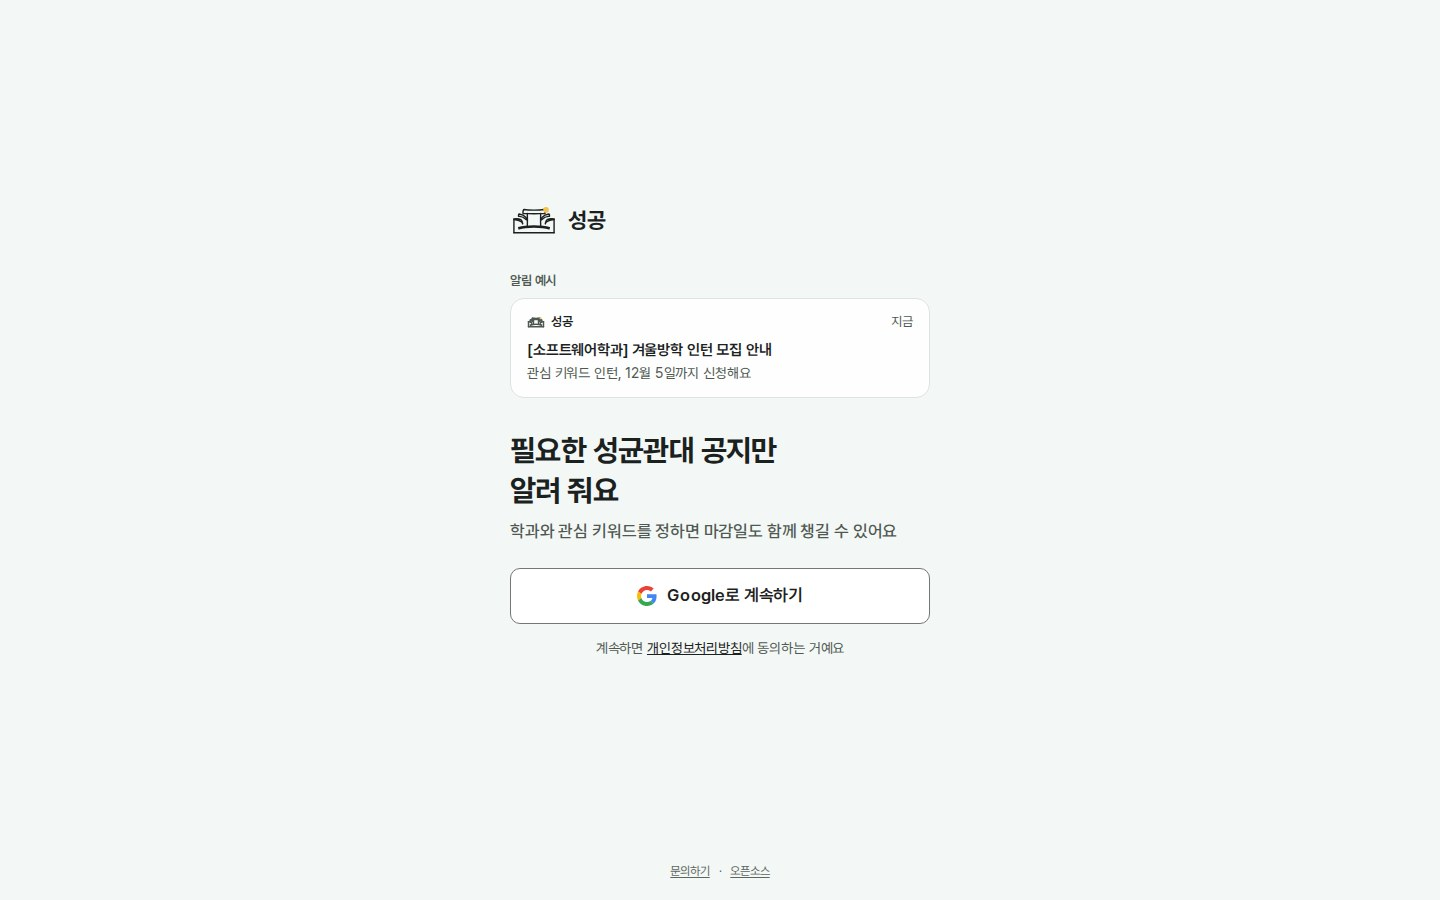
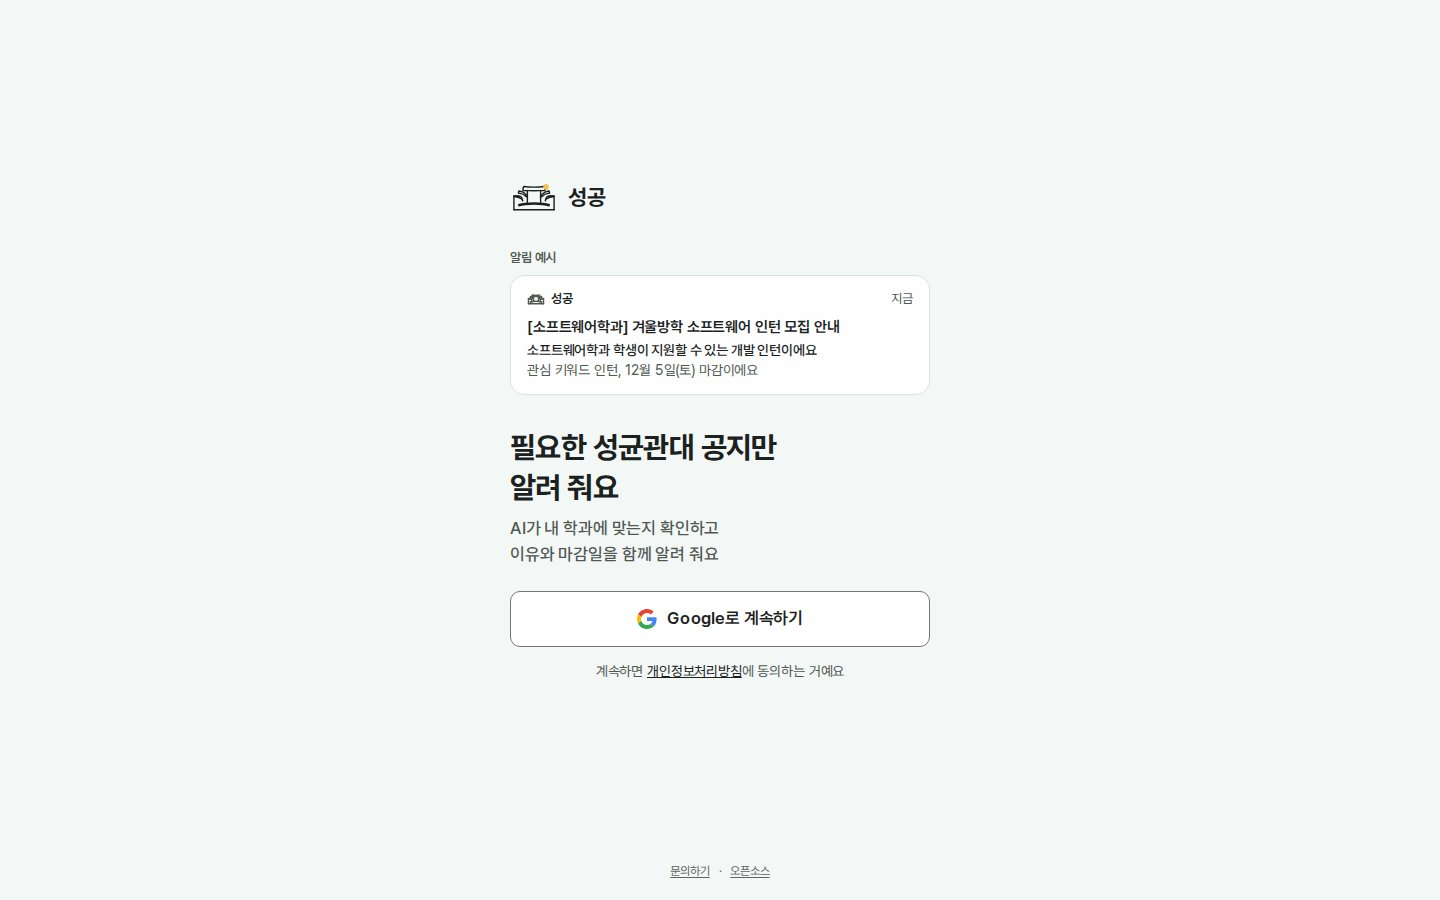
docs: README에 현장실습과 바뀐 알림·새 버전 안내를 적고 캡처를 새로 찍는다
- 현장실습 구역 추가(예시 기관 데이터로 찍은 PC·모바일, 라이트·다크). 실제 톨게이트 기관 정보는 로그인한 사용자만 보므로 README에 싣지 않는다.
- 로그인(새 알림 예시, 설치 단추), PC 목록·상세, 모바일 목록·상세를 운영 화면으로 다시 찍었다(메뉴의 현장실습, 휴대폰 강조색).
- 알림 제목 [게시판] 형식, 공지 로그인 전용, 요약 대상(현장실습 포함), 새 버전 알림 줄, 단축키 1~4를 적고,
  더는 없는 '마지막 공지 스냅샷'과 '요약 다시 시도' 문장을 지운다. 현장실습 수집 방식과 한계를 알려진 한계에 적는다.

Changed region(s): [[0.3438, 0.4667, 0.625, 0.6222], [0.3438, 0.1867, 0.5938, 0.4356], [0.4062, 0.6533, 0.5938, 0.7778]]

diff --git a/README.md b/README.md
@@ -4,7 +4,7 @@
 
 # 성공
 
-성균관대 공지와 인턴 공고를 모아 보고, 나에게 맞는 공지만 알림으로 받는 다중 사용자 웹 앱
+성균관대 공지, 인턴 공고, 현장실습을 모아 보고, 나에게 맞는 공지만 알림으로 받는 다중 사용자 웹 앱
 
 ![version](https://img.shields.io/badge/version-0.1.0-124532)
 ![PWA](https://img.shields.io/badge/PWA-installable-124532)
@@ -20,7 +20,7 @@
 
 ### 1. 로그인
 
-Google 계정으로 로그인합니다. 휴대폰에서는 Google 단추 위에 "앱으로 설치하기"(설치한 앱으로 열면 사라집니다)가 보이고, 단추 바로 아래에서 개인정보처리방침을 로그인 전에도 읽을 수 있으며, 맨 아래에는 "문의하기 · 오픈소스" 링크를 작게 둡니다. 모바일 캡처는 안드로이드에서 설치 단추가 보이는 모습입니다.
+Google 계정으로 로그인합니다. 공지는 로그인한 사용자만 볼 수 있습니다. 위의 알림 예시는 실제 알림과 같은 모양으로, 제목 앞에 게시판 이름(`[소프트웨어학과]`)이 붙고 아래에 AI가 본 이유와 관심 키워드·마감이 옵니다. 휴대폰에서는 Google 단추 위에 "앱으로 설치하기"(설치한 앱으로 열면 사라집니다)가 보이고, 단추 바로 아래에서 개인정보처리방침을 로그인 전에도 읽을 수 있으며, 맨 아래에는 "문의하기 · 오픈소스" 링크를 작게 둡니다. 모바일 캡처는 안드로이드에서 설치 단추가 보이는 모습입니다.
 
 | PC: 라이트 | PC: 다크 |
 |:---:|:---:|
@@ -50,7 +50,7 @@ Google 계정으로 로그인합니다. 휴대폰에서는 Google 단추 위에 
 
 #### PC
 
-목록과 공지 상세를 함께 봅니다. 목록에는 관심 키워드, AI 판정 이유, 마감 D-day가 보이고, 공지를 누르면 오른쪽에 판정 이유와 본문이 열립니다. 열린 공지를 다시 누르면 상세 칸이 닫힙니다.
+목록과 공지 상세를 함께 봅니다. 목록에는 관심 키워드, AI 판정 이유, 마감 D-day가 보이고, 공지를 누르면 오른쪽에 판정 이유, AI 요약, 본문이 열립니다. 열린 공지를 다시 누르면 상세 칸이 닫힙니다.
 
 | 라이트 | 다크 |
 |:---:|:---:|
@@ -58,13 +58,25 @@ Google 계정으로 로그인합니다. 휴대폰에서는 Google 단추 위에 
 
 #### 모바일
 
-아래 탭으로 성대 공지, 인턴 공고, 저장한 공지를 오가고, 공지를 눌러 상세와 원문을 확인합니다.
+아래 탭으로 성대 공지, 인턴 공고, 현장실습, 저장한 공지를 오가고, 공지를 눌러 AI 요약과 본문, 원문을 확인합니다.
 
 | 목록: 라이트 | 목록: 다크 | 상세: 라이트 | 상세: 다크 |
 |:---:|:---:|:---:|:---:|
 | <img src="assets/readme/mobile-list-light.jpg" alt="모바일 공지 목록 (라이트)" width="180"> | <img src="assets/readme/mobile-list-dark.jpg" alt="모바일 공지 목록 (다크)" width="180"> | <img src="assets/readme/mobile-detail-light.jpg" alt="모바일 공지 상세 (라이트)" width="180"> | <img src="assets/readme/mobile-detail-dark.jpg" alt="모바일 공지 상세 (다크)" width="180"> |
 
-### 4. 인턴십 졸업요건 확인
+### 4. 현장실습
+
+학교 현장실습업무지원 시스템(톨게이트)의 "현장실습 기관조회"를 공지처럼 정리해 보여 줍니다. 제목은 "기관 · 직무명"이고, 상세는 하는 일, 지원 자격, 실습 조건, 일정, 학교 안내, 기관 순서로 나눕니다. 인턴 공고와 같이 AI 판정과 요약, 인턴십 요건 확인이 붙고, 신청은 "톨게이트에서 신청하기"로 학교 로그인 뒤에 합니다. 접수마감(마감이 없으면 실습 시작일)이 지나면 목록에서 사라지고 서버에서도 지우며, 신청할 수 있는 현장실습이 하나도 없으면 메뉴에서도 숨깁니다. 아래 캡처는 README용 예시 기관입니다(실제 기관 정보는 로그인한 사용자에게만 보입니다).
+
+| PC: 라이트 | PC: 다크 |
+|:---:|:---:|
+| <img src="assets/readme/coop-pc-light.jpg" alt="PC 현장실습 목록과 상세 (라이트, 예시 기관)" width="420"> | <img src="assets/readme/coop-pc-dark.jpg" alt="PC 현장실습 목록과 상세 (다크, 예시 기관)" width="420"> |
+
+| 모바일: 라이트 | 모바일: 다크 |
+|:---:|:---:|
+| <img src="assets/readme/coop-mobile-light.jpg" alt="모바일 현장실습 상세 (라이트, 예시 기관)" width="200"> | <img src="assets/readme/coop-mobile-dark.jpg" alt="모바일 현장실습 상세 (다크, 예시 기관)" width="200"> |
+
+### 5. 인턴십 졸업요건 확인
 
 소프트웨어학과 원전공 사용자는 인턴 공고의 상세에서 학과 졸업 인턴십과 학교 3품 인턴십 요건에 맞는지 봅니다. 기준과 공고에서 읽은 값을 함께 말합니다. 전일제는 기간(약 시간)이 기준(28일 이상)을 넘는지, 파트타임은 총 시간이 기준(160시간 이상)을 넘는지, 3품은 약 몇 시간이라 기준(280시간)에 닿는지 적습니다. 여러 직무를 뽑는 공고는 소프트웨어와 관련 있어 보이는 직무 이름을 근거로 보여 줍니다. 실제 인정은 학교와 학과 확인이 필요합니다.
 
@@ -76,7 +88,7 @@ Google 계정으로 로그인합니다. 휴대폰에서는 Google 단추 위에 
 |:---:|:---:|
 | <img src="assets/readme/graduation-mobile-light.jpg" alt="모바일 공지 상세의 인턴십 요건 확인 (라이트)" width="200"> | <img src="assets/readme/graduation-mobile-dark.jpg" alt="모바일 공지 상세의 인턴십 요건 확인 (다크)" width="200"> |
 
-### 5. 설정
+### 6. 설정
 
 설정 홈에서 알림과 관심 키워드, 계정, 화면 모드를 바꾸고, 아이캠퍼스와 구글 캘린더는 "기타"에 있습니다. 라이트·다크·자동 모드는 설정에서 고릅니다.
 
@@ -86,19 +98,21 @@ Google 계정으로 로그인합니다. 휴대폰에서는 Google 단추 위에 
 
 ## 할 수 있는 것
 
-- **공지 보기**: 성균관대 공지, 단과대학·학과 게시판(60여 개), 부트캠프, 외부 인턴 공고(링커리어, 자소설닷컴, 학생인재개발팀)를 한곳에서 봅니다. 게시판은 로그인한 사용자가 고른 것만 수집합니다.
+- **공지 보기**: 성균관대 공지, 단과대학·학과 게시판(60여 개), 부트캠프, 외부 인턴 공고(링커리어, 자소설닷컴, 학생인재개발팀), 학교 현장실습(톨게이트)을 한곳에서 봅니다. 게시판은 로그인한 사용자가 고른 것만 수집하고, 모든 공지는 로그인한 사용자만 읽을 수 있습니다.
+- **현장실습**: 신청 기간마다 운영자가 톨게이트에 직접 로그인한 브라우저에서 진행 중인 기관 목록과 상세를 가져옵니다(서버가 학교 계정으로 자동 로그인하지 않습니다). 직무, 하는 일, 지원 자격, 실습 조건, 일정을 구역으로 나눠 보여 주고, 접수마감이 지나면 지웁니다. 한 번에 수백 건이 들어와서 새 공지 알림은 보내지 않습니다.
 - **첫 로그인 설정**: 주전공과 복수전공(대학을 먼저 고른 뒤 학과), 학교 정보(학년·재학 상태·병역), 인턴십, 받을 공지(전공과 상관없는 게시판과 관심 키워드 포함), 알림, AI 키의 7단계입니다. 처음에만 열리고 건너뛸 수 없으며, 전공과 AI 키(Groq, Gemini 중 최소 1개 이상)는 꼭 입력해야 끝납니다. 받을 공지 단계에서는 켜 둔 게시판 아래에 기타 게시판과 관심 키워드가 바로 보입니다.
-- **공지 읽기**: 검색, 최신순·마감순 정렬, 읽지 않은 글 보기, 선택한 공지나 현재 목록의 읽음 표시, 저장한 공지 모아 보기를 지원합니다. 관심 키워드에는 현재 보기에서 키워드에 맞는 글 수를 보여 주고, 마감이 있는 공지와 인턴 공고에는 마감을 표시합니다. 키보드로 J·K(이동), S(저장), Enter(원문), Esc(닫기)를 쓸 수 있습니다.
+- **공지 읽기**: 검색, 최신순·마감순 정렬, 읽지 않은 글 보기, 선택한 공지나 현재 목록의 읽음 표시, 저장한 공지 모아 보기를 지원합니다. 관심 키워드에는 현재 보기에서 키워드에 맞는 글 수를 보여 주고, 마감이 있는 공지와 인턴 공고에는 마감을 표시합니다. 키보드로 J·K(이동), S(저장), Enter(원문), Esc(닫기), 1~4(성대 공지·인턴 공고·현장실습·저장)를 쓸 수 있습니다.
 - **공지 상세**: 본문, 그림 속 글자(OCR로 읽은 글), 첨부 파일, 원문 열기를 한 화면에서 봅니다. 학교가 제목이나 본문을 고친 글에는 고친 날짜를 표시하고, 본문이 아직 없으면 원문으로 바로 갈 수 있게 안내합니다.
-- **알림**: 웹 푸시(VAPID)로 새 공지를 보냅니다. 관심 키워드가 맞는 공지는 소리로, 나머지는 조용히 보내고 학교가 고친 중요한 글은 한 번 더 알립니다.
+- **알림**: 웹 푸시(VAPID)로 새 공지를 보냅니다. 학교 공지는 제목 앞에 게시판 이름을 붙이고(`[소프트웨어학과] 공지 제목`), 본문 첫 줄에 AI가 본 이유를 둡니다. 관심 키워드가 맞는 공지는 소리로, 나머지는 조용히 보내고 학교가 고친 중요한 글은 한 번 더 알립니다.
 - **기기별 알림 관리**: 이 기기의 알림을 직접 켜고 끄며, 테스트 알림으로 도착하는 모습을 확인합니다. 등록된 기기 목록에서 기기 이름을 바꾸고 다른 기기를 지울 수 있습니다. 로그아웃하면 이 기기의 알림 등록을 해제하고 계정이 바뀌면 이전 계정의 기기 구독을 정리합니다. 키워드는 설정에서 바로 추가·삭제하고 계정에 순서대로 저장합니다.
-- **화면과 설치**: 라이트·다크·자동 모드, 앱 설치(PWA), 성대 공지 탭에 "모든 게시판"이나 "받는 게시판만" 보기를 고를 수 있습니다. 서버 연결에 실패하면 마지막 공지 스냅샷을 보여 줍니다. 휴대폰 로그인 화면의 Google 단추 위에는 "앱으로 설치하기" 단추(안드로이드 등 브라우저가 설치 창을 줄 때)나 홈 화면 추가 안내(iOS Safari)가 보이고, 설치한 앱으로 열면 사라집니다. 로그인 화면 맨 아래에는 "문의하기 · 오픈소스" 링크를 조용히 둡니다.
+- **화면과 설치**: 라이트·다크·자동 모드, 앱 설치(PWA), 성대 공지 탭에 "모든 게시판"이나 "받는 게시판만" 보기를 고를 수 있습니다. 휴대폰 로그인 화면의 Google 단추 위에는 "앱으로 설치하기" 단추(안드로이드 등 브라우저가 설치 창을 줄 때)나 홈 화면 추가 안내(iOS Safari)가 보이고, 설치한 앱으로 열면 사라집니다. 로그인 화면 맨 아래에는 "문의하기 · 오픈소스" 링크를 조용히 둡니다.
 - **내 AI 키**: 사용자가 직접 넣은 AI 키(Groq, Gemini)로 성대 공지와 인턴 공고가 나에게 맞는지 판정해, 맞는 공지를 소리로 알립니다(무료 모델만 씁니다). 키를 여러 개 넣으면 상한 대비 덜 쓴 키부터 번갈아 쓰고, 한 곳이 막히면 다른 곳으로 넘어갑니다. 상한은 업체마다 다르게 두었고, 이미 판정한 공지는 다시 호출하지 않습니다. 키는 암호화해 서버에만 보관하며 브라우저가 읽을 수 없고, 그 사용자 본인의 공지 처리에만 쓰입니다.
 - **판정 순서와 보관**: 새로 가입해 밀린 공지가 많아도 구독한 게시판의 마감이 가까운 공지부터 판정하고, 이미 마감된 공지에는 키를 쓰지 않습니다. 서버의 공지는 마감 30일 뒤(마감이 없으면 처음 본 지 90일 뒤) 지우며, 사용자가 저장한 공지는 지우지 않습니다.
 - **인턴십 졸업요건 확인**: 소프트웨어학과 원전공이나 학교 3품 인턴십을 선택한 사용자에게, 인턴 공고에 적힌 근무 기간·시간으로 학과 기준(전일제 28일 이상, 파트타임 160시간 이상)과 3품 기준(280시간)에 맞는지 판단해 이유와 근거를 보여 줍니다. 여러 직무를 뽑는 공고에서 소프트웨어와 관련 있어 보이는 직무가 있으면 그 이름을 말하고 가능으로 봅니다. 규칙 버전이 바뀌면 저장된 판정을 서버가 조금씩 새 규칙으로 다시 만듭니다. 실제 인정 여부는 학교와 학과에 확인해야 합니다.
 - **아이캠퍼스 토큰(선택)**: 사용자가 직접 만든 아이캠퍼스(Canvas) 토큰으로 마감이 가까운 과제와 퀴즈를 알립니다. 설정의 "기타" 아래 "아이캠퍼스" 페이지에서 알림, 토큰, 하루 요약 순서로 정합니다. 기기마다 "끄기, 하루 요약, 요약과 마감" 중 받을 방식을 고르고, 하루 요약 시간은 직접 정합니다. 토큰은 AI 키와 같은 방식으로 보호합니다.
 - **구글 캘린더(선택)**: 구글 로그인으로 허용하면 저장한 공지의 마감을 "성대 공지" 캘린더에 넣습니다. 한 번 연결하면 서버가 30분마다 저장한 공지를 확인해서 자동으로 맞춥니다(구글이 주는 장기 열쇠를 암호화해 보관하며, 연결을 끊거나 계정을 지우면 지워집니다). 이 앱이 만든 캘린더 안의 일정만 다루고 내 다른 캘린더는 읽지 못합니다.
-- **공지 요약**: AI 키가 있으면 공지 상세에 1~3문장 요약이 자동으로 만들어지고, 실패하면 다시 시도할 수 있습니다.
+- **공지 요약**: AI 키가 있으면 성대 공지, 인턴 공고, 현장실습의 상세에 1~3문장 요약이 자동으로 만들어집니다.
+- **새 버전 안내**: 쓰는 도중 새 버전이 배포되면 화면을 갑자기 바꾸지 않고 "새 버전이 나왔어요 · 업데이트 · 나중에" 알림 줄로 묻습니다. "업데이트"를 누르면 새 버전으로 다시 열고, "나중에"를 고르면 다음에 앱을 열 때 바뀝니다.
 - **프로필 설정**: 전공, 학년, 재학 상태, 병역과 관심 분야(주관식)를 바꿉니다. AI 판정과 인턴십 졸업요건 확인에만 쓰이며 이름, 학번, 연락처는 받지 않습니다(입학 연도만 받습니다).
 - **계정 삭제와 개인정보 처리방침**: 설정 맨 아래의 "계정 삭제"로 계정과 저장한 모든 정보를 바로 지울 수 있습니다. 어떤 정보를 어디에 쓰는지는 앱 안의 [개인정보 처리방침](web/public/privacy.html)(`PRIVACY.md`와 같은 내용)에 적었습니다. 로그인 화면의 "계속하면 개인정보처리방침에 동의하는 거예요"에서 로그인 전에도 읽을 수 있고, 브라우저 저장 공간(추적 쿠키 없음), 이용자의 권리와 행사 방법, 개인정보 보호책임자(운영자, 연락처는 처리방침에 적은 이메일)도 담았습니다.
 - 구독, 키워드, 저장, 읽음은 계정별로 DB에 저장하고 행 수준 보안(RLS)으로 사용자 간 접근을 막습니다. 저장·읽음의 화면 동기화는 계속 검증하고 있습니다.
@@ -163,6 +177,7 @@ uv run ruff check src tests
 - 서버가 손으로 보낸 테스트 푸시가 기기에 도착하는 것은 웨일에서 확인했지만, 새 공지가 올라와 자동으로 보내지는 전체 경로와 아이캠퍼스 알림 도착은 계속 관찰하고 있습니다. 푸시 확인은 푸시 서비스가 있는 브라우저(Chrome, 웨일 등)에서 해야 하며, VS Code 내장 브라우저(Electron)는 웹 푸시를 지원하지 않습니다. 발송 뒤 상태를 기록하기 전에 장애가 나면 알림이 한 번 더 갈 수 있습니다.
 - 무료 AI 키의 한도는 업체마다 다르고 공식 표가 자주 바뀝니다. 앱의 하루 상한은 조사한 한도보다 낮게 잡은 추정값이라, 키가 자주 막히면 조정해야 합니다.
 - 외부 인턴 공고 수집은 해당 사이트의 이용약관과 robots.txt 정책을 따로 확인해야 하며, 운영자가 위험을 알고 켠 기능입니다.
+- 현장실습은 학교 로그인이 필요하고 robots.txt가 수집을 막는 시스템이라, 운영자가 직접 로그인한 브라우저에서 사람 속도로 가져오고 로그인한 사용자에게만 보여 줍니다. 자동으로 갱신되지 않아 신청 기간 중 새로 붙은 기관은 다시 가져와야 보입니다. 구글 계정이면 누구나 가입할 수 있어 성대생으로만 제한되지는 않습니다.
 - 1GB 서버에서 OCR이 긴 이미지를 처리하는 데 시간이 걸립니다. 부하가 큰 상황의 안정성은 검증하지 않았습니다.
 - 사범대학, 약학대학, 의과대학 등 일부 학과 게시판은 로그인이 필요하거나 읽지 못해 목록에 없습니다.
 - 개인용 서비스의 RSS 피드는 옮기지 않았습니다.
